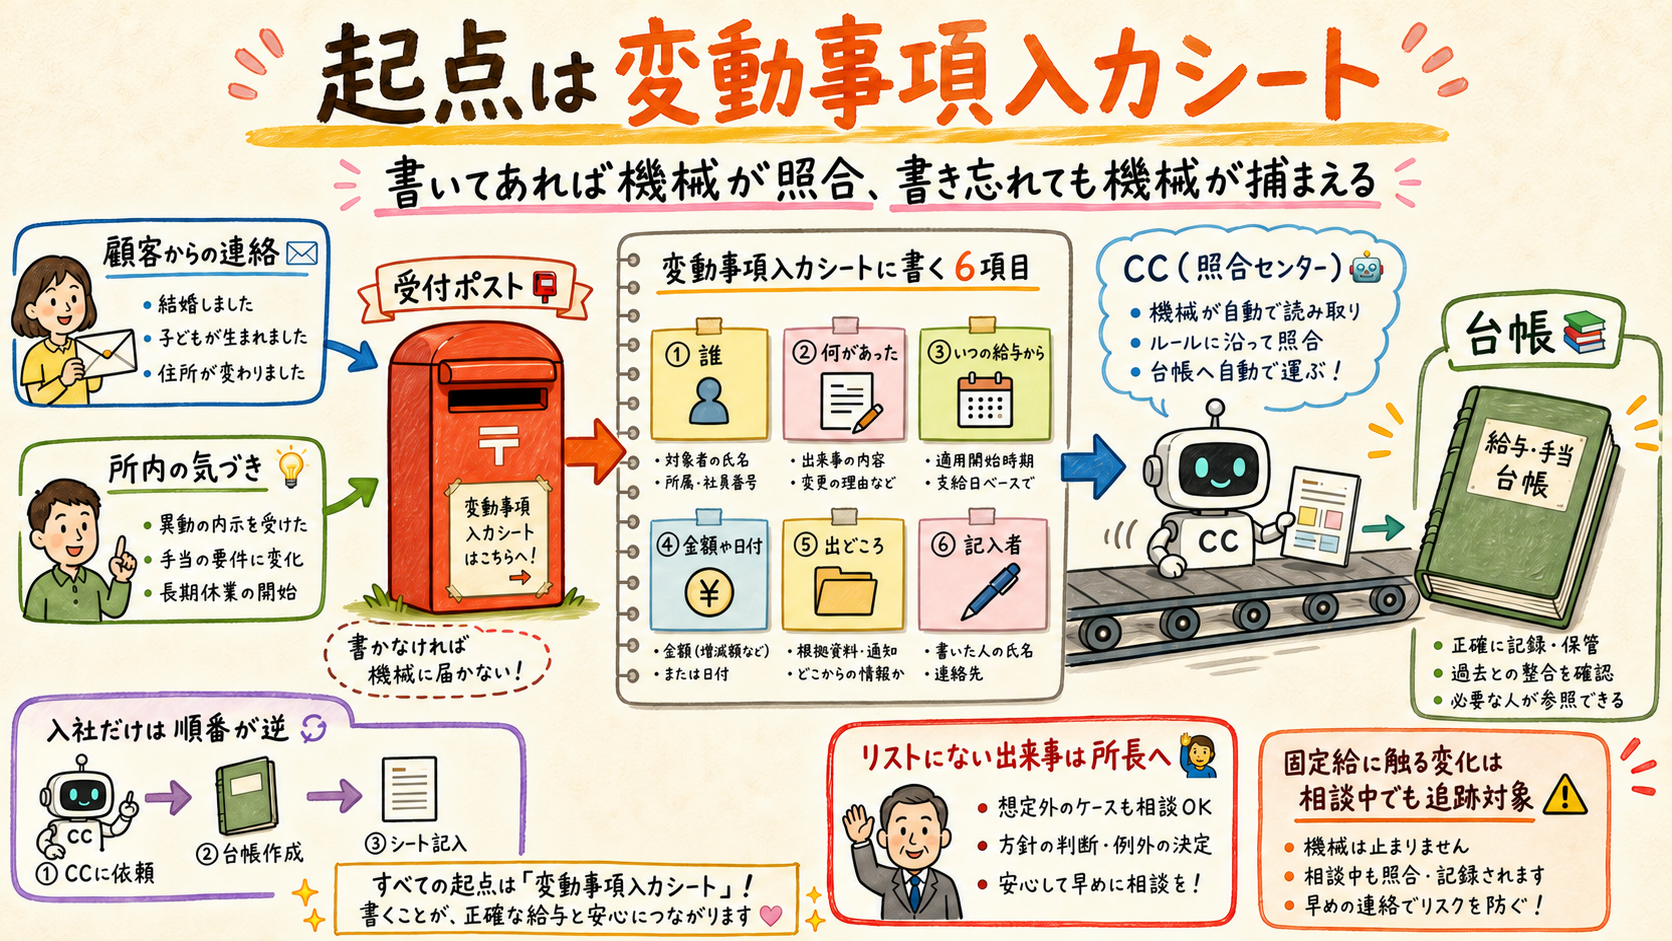
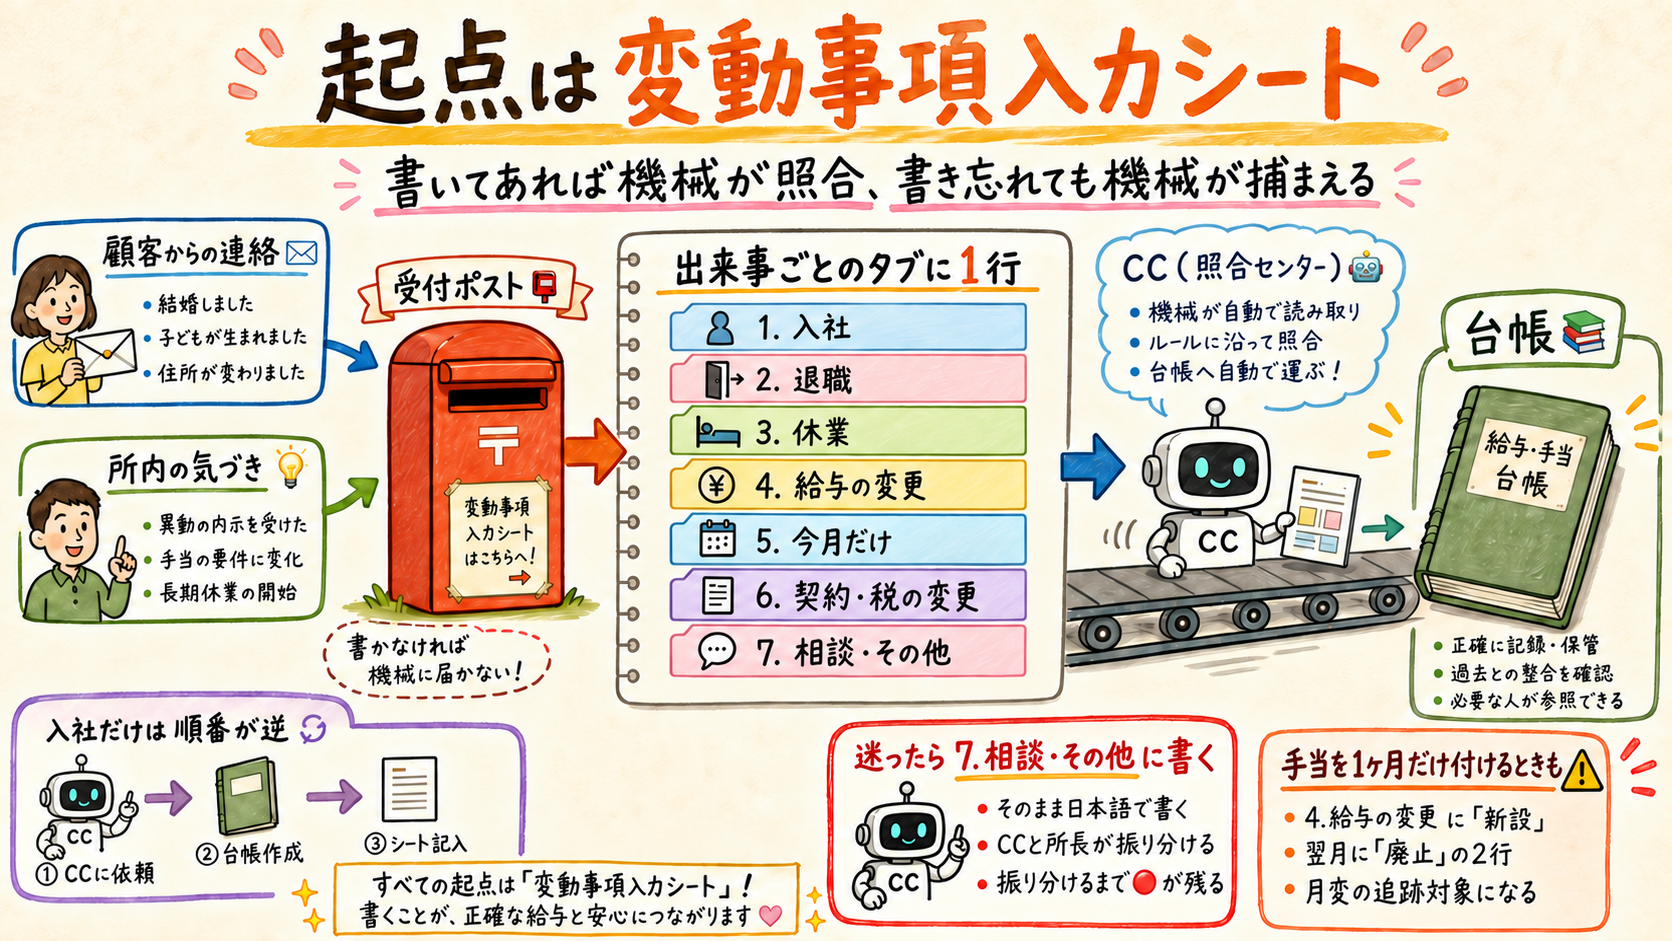
仕組み編の入力シート図を v2（出来事ごとの7タブ）に差し替え

diff --git a/payroll-harness/index.html b/payroll-harness/index.html
@@ -213,7 +213,7 @@
     <p class="sub">日々の入力はこれだけです。難しい判定は機械が止め、判断に迷うものだけ所長へ回します。</p>
     <figure>
       <img src="images/concept-03-01.png" alt="起点は変動事項入力シート（グラレコ）">
-      <figcaption>起点は変動事項入力シート。CC＝Claude Code（依頼を受けてシートを台帳へ取り込む）。図の「6項目」は v1 の列。v2 では出来事ごとのタブに分かれ、書く項目はタブの見出しどおり</figcaption>
+      <figcaption>起点は変動事項入力シート（v2）。出来事ごとのタブに1行書き、CC＝Claude Code が台帳へ取り込む。迷ったら「7.相談・その他」、1ヶ月だけの手当は「4.給与の変更」に新設＋廃止の2行</figcaption>
     </figure>
     <table class="table">
       <thead><tr><th>タイミング</th><th>やること</th><th>ポイント</th></tr></thead>
